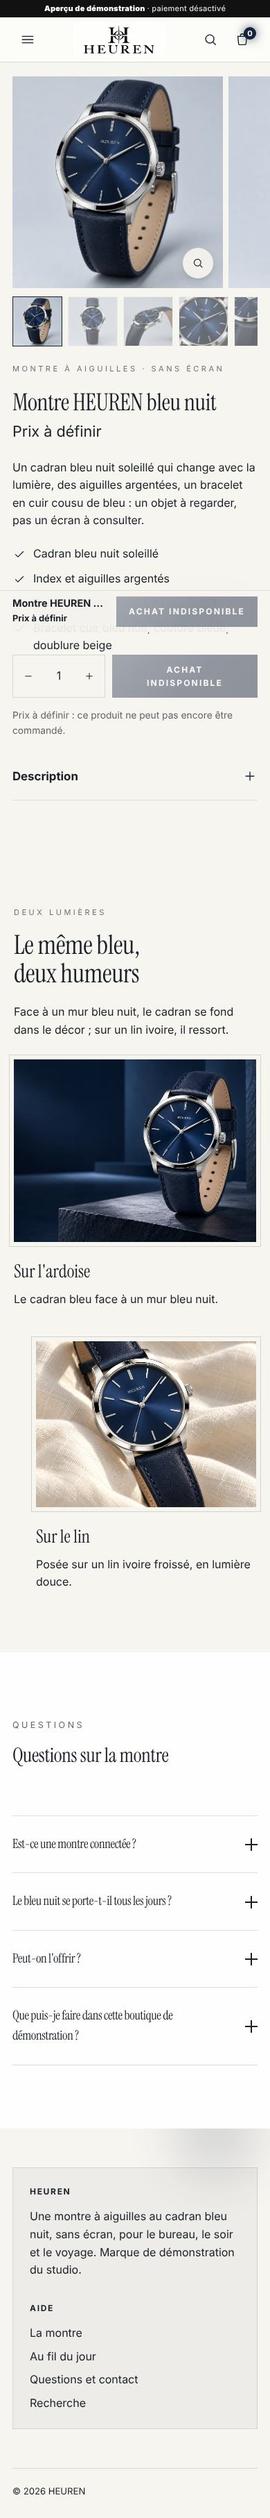
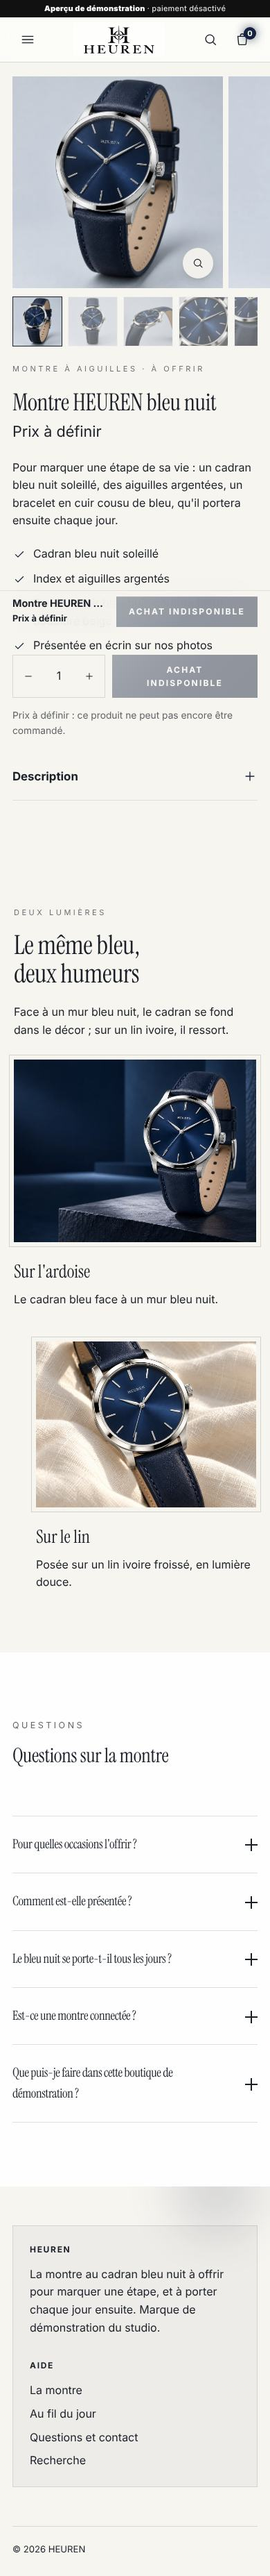
HEUREN : « il y a des étapes qui méritent une montre », le cadeau qui se porte ensuite (consigne de Thomas, 21 h 45)
- Cible : la personne qui offre une montre à son compagnon pour marquer une étape de sa vie ; l'occasion et
  l'intention portent le récit (plus de « guerre contre les notifications »).
- Ouverture sur l'écrin et son ruban ; cadran « qu'il regardera longtemps », « un cadeau qui se porte, bien après la
  fête », « du bureau au dîner, il la garde » ; FAQ des occasions et de l'écrin ; question « Peut-on la faire graver ? »
  prête dans l'éditeur, rien d'inventé. Fiche, « Au fil du jour », aide, pied, SEO. Captures régénérées.

Claude-Session: https://claude.ai/code/session_01EKtK8Za16S8DnNDefXRRF7

diff --git a/tests/heuren-alcove-fixtures.ts b/tests/heuren-alcove-fixtures.ts
@@ -60,25 +60,26 @@ export const ALCOVE_MEDIA: Media[] = [
 export const SHOP_KIT_MEDIA: Record<ShopKitId, Media[]> = { heuren: HEUREN_MEDIA, alcove: ALCOVE_MEDIA };
 export const SHOP_KIT_HANDLE: Record<ShopKitId, string> = { heuren: "montre-heuren-bleu-nuit", alcove: "fauteuil-alcove-terracotta" };
 
-// HEUREN — fiche de stratégie (consigne du 21 octobre, 19 h 50 ; hypothèse éditoriale, pas une étude) :
-//  1. cible : une personne dont le poignet vibre toute la journée (téléphone, montre connectée) et qui voudrait y porter
-//     un bel objet, au bureau comme le soir ;
-//  2. tension : « Mon poignet me réclame quelque chose toutes les cinq minutes. » ;
-//  3. désir : porter quelque chose de beau qui ne demande rien — angle unique : un bleu à regarder, pas un écran à
-//     surveiller ;
-//  4. promesse tenable : une montre à aiguilles au cadran bleu nuit soleillé qui change avec la lumière ; faits = visuels
-//     (cadran, index, aiguilles, boîtier, bracelet, écrin, décors) ; mouvement, taille, étanchéité et matières inconnus ;
-//  5. objections : est-ce connecté (non : un cadran et des aiguilles), le bleu au quotidien (tenues des photos), l'offrir
-//     (l'écrin des photos, contenu à confirmer), prix, taille et commande (information dédiée) ;
-//  6. parcours : ouverture (se reconnaître) → cadran (l'angle) → repères (les détails) → sobriété → du bureau au dîner →
-//     achat → FAQ « Avant de choisir » → inscription.
+// HEUREN — fiche de stratégie (consigne de Thomas du 21 octobre, 21 h 45 ; brief, hypothèse éditoriale) :
+//  acheteur : une personne qui offre une montre à son compagnon ; utilisateur : lui, qui la portera ;
+//  situation d'achat : une étape de sa vie à marquer (nouveau poste, anniversaire, projet qui aboutit) ;
+//  tension (ses mots) : « Je veux un cadeau à la hauteur du moment, pas un objet qui finira dans un tiroir. » ;
+//  désir : que le cadeau garde la trace de ce moment, et qu'il le porte ensuite ;
+//  angle unique : un cadeau qui matérialise ce moment et se porte ensuite au quotidien ;
+//  promesse tenable : une montre à aiguilles au cadran bleu nuit soleillé, présentée en écrin sur les photos, assez
+//  sobre pour le bureau comme pour le soir ; faits = visuels (cadran, index, aiguilles, boîtier, bracelet, écrin, décors) ;
+//  objections : pour quelle occasion, comment elle est présentée (écrin, contenu non renseigné), le bleu au quotidien,
+//  connectée ou non (une montre à aiguilles), gravure, prix, taille et mouvement (non renseignés) ;
+//  exclusions : aucune guerre contre les notifications, aucun mouvement, taille, matière, étanchéité ni gravure inventés.
 export const HEUREN_FAQ: [string, string][] = [
-  ["Est-ce une montre connectée ?", "Non : un cadran, des index et des aiguilles. Elle ne vibre pas et n'affiche aucune notification ; elle donne l'heure, c'est tout."],
+  ["Pour quelles occasions l'offrir ?", "Un nouveau poste, un anniversaire, des fiançailles, un diplôme, un projet qui aboutit : une étape que vous voulez marquer avec un objet qu'il portera ensuite tous les jours."],
+  ["Comment est-elle présentée ?", "Nos photos la montrent dans un écrin bleu nuit, un ruban crème à côté. Le contenu exact de l'écrin n'est pas encore renseigné."],
   ["Le bleu nuit se porte-t-il tous les jours ?", "Sur nos photos, il accompagne un veston, une chemise blanche, un bureau en noyer et une trousse de voyage : un bleu sombre, sobre, que les index argentés éclairent."],
-  ["Peut-on l'offrir ?", "Nos photos la montrent dans un écrin bleu nuit, un ruban crème à côté. Le contenu exact de l'écrin n'est pas encore renseigné."],
-  ["Que puis-je faire dans cette boutique de démonstration ?", "Faire le tour de la montre en cinq vues et la voir au fil du jour. Le prix, la taille du boîtier et le mouvement ne sont pas encore renseignés, et la commande est désactivée."],
+  ["Est-ce une montre connectée ?", "Non : un cadran, des index et des aiguilles. Elle donne l'heure, avec un beau bleu autour."],
+  ["Que puis-je faire dans cette boutique de démonstration ?", "Faire le tour de la montre en cinq vues et la voir au fil du jour. Le prix, la taille du boîtier, le mouvement et la gravure ne sont pas encore renseignés, et la commande est désactivée."],
 ];
 export const HEUREN_FAQ_PENDING: [string, string][] = [
+  ["Peut-on la faire graver ?", TODO("gravure possible ou non, emplacement et nombre de caractères")],
   ["Quel mouvement anime la montre ?", TODO("type de mouvement et réserve de marche")],
   ["Est-elle étanche ?", TODO("étanchéité, en mètres ou en ATM")],
   ["Quelle est la taille du boîtier ?", TODO("diamètre, épaisseur, largeur entre les cornes")],
@@ -117,7 +118,7 @@ const BRANDS: Record<ShopKitId, Brand> = {
     name: "HEUREN", product: "Montre HEUREN bleu nuit", category: "Montre",
     summary: "Montre à cadran bleu nuit soleillé, index et aiguilles argentés, boîtier argenté, bracelet en cuir bleu nuit cousu de bleu et doublé de beige ; le nom HEUREN est inscrit sur le cadran.",
     facts: [["Cadran", "bleu nuit soleillé, index et aiguilles argentés"], ["Bracelet", "cuir bleu nuit, couture bleue, doublure beige"]],
-    tagline: "L'heure bleue, au poignet.", story: "HEUREN est née d'un bleu : celui du ciel juste après le coucher du soleil.", positioning: "Une montre au cadran bleu nuit pour le bureau, le soir et le voyage.",
+    tagline: "Pour marquer une étape, à porter chaque jour.", story: "HEUREN est née d'une idée : qu'un cadeau marquant ne finisse pas dans un tiroir, mais au poignet, chaque jour.", positioning: "Une montre au cadran bleu nuit à offrir pour une étape de vie, et à porter au quotidien.",
     // Bleu nuit du cadran, argent brumeux des fonds produit, beige de la doublure, ivoire.
     palette: { primary: "#15233E", secondary: "#D9DDE3", accent: "#B8946A", light: "#F7F5F0", dark: "#0D1526" },
   },
@@ -147,44 +148,44 @@ const marker = (_k: Kit, x: number, y: number, title: string) => ({ type: "marke
 function curateHeuren(k: Kit) {
   const { spec, img, section, overlay, faq, productHref } = k;
   k.demoMeta();
-  spec.store.seo = { title: "HEUREN | Montre à aiguilles au cadran bleu nuit soleillé, sans écran", description: "Un bleu à regarder, pas un écran à surveiller : la montre HEUREN, cadran bleu nuit soleillé, aiguilles argentées, bracelet en cuir cousu de bleu." };
+  spec.store.seo = { title: "HEUREN | Une montre à offrir pour marquer une étape de sa vie", description: "Nouveau poste, anniversaire, projet abouti : offrez-lui la montre HEUREN au cadran bleu nuit soleillé, pour garder ce moment au poignet, chaque jour." };
   k.product({
     title: "Montre HEUREN bleu nuit",
-    description_html: p("Son rôle : donner l'heure, et rien d'autre. Pas d'écran, pas de notification : un cadran que l'on regarde parce qu'il est beau.") + p("Ce qu'on voit : un cadran bleu nuit soleillé dont les reflets changent avec la lumière, des index et des aiguilles argentés, un boîtier argenté, un bracelet en cuir bleu nuit cousu de bleu et doublé de beige. Le nom HEUREN est inscrit sur le cadran.") + p("Quand la porter : au bureau, avec un veston, en voyage, et posée sur son support le soir ; nos photos la montrent à chacun de ces moments."),
+    description_html: p("Pourquoi l'offrir : pour marquer une étape de sa vie (un nouveau poste, un anniversaire, un projet qui aboutit) avec un objet qu'il portera ensuite tous les jours.") + p("Ce qu'on voit : un cadran bleu nuit soleillé dont les reflets changent avec la lumière, des index et des aiguilles argentés, un boîtier argenté, un bracelet en cuir bleu nuit cousu de bleu et doublé de beige. Le nom HEUREN est inscrit sur le cadran.") + p("Après le jour J : au bureau, avec un veston, en voyage, et posée sur son support le soir ; nos photos la montrent à chacun de ces moments. Le contenu exact de l'écrin n'est pas encore renseigné."),
     images: ["produit-01.webp", "produit-02.webp", "produit-03.webp", "produit-04.webp", "produit-05.webp"],
     tags: ["montre", "bleu nuit", "cuir"],
-    seo: { title: "Montre HEUREN bleu nuit : cadran, boîtier et bracelet en détail", description: "Faites le tour de la montre HEUREN : trois quarts, face, profil, cadran bleu nuit soleillé et bracelet en cuir cousu de bleu, en gros plan." },
+    seo: { title: "Montre HEUREN bleu nuit, à offrir : cadran et bracelet en détail", description: "Avant de l'offrir, faites le tour de la montre HEUREN : trois quarts, face, profil, cadran bleu nuit soleillé et bracelet en cuir cousu de bleu." },
   });
 
   // ─── Accueil : l'heure bleue, le cadran, les repères, puis la montre portée. ──────────────────────────────────────
   overlay("index", [
-    section("ed-opening", { ...img("ambiance-07.webp"), layout: "journal", heading_tag: "h1", label: "Montre à aiguilles", heading: "L'heure bleue,\nau poignet.", text: p("Pas d'écran, pas de notification : un cadran bleu nuit soleillé, des aiguilles argentées, un bracelet de cuir cousu de bleu. Une montre que l'on regarde pour le plaisir."), button_label: "Voir la montre", button_link: productHref, focus_x: 46, focus_y: 50, mobile_focus_x: 40, mobile_focus_y: 50, copy_surface: true, caption: "", motion: "reveal", padding_top: 24, padding_bottom: 72 }),
-    section("ed-statement", { ...img("produit-04.webp"), label: "Le cadran", heading: "Un bleu à regarder, pas un écran à surveiller", text: p("Le cadran soleillé renvoie la lumière du centre vers le bord : il n'est pas le même sous la lampe du bureau et au coucher du soleil. Le nom HEUREN y est inscrit en argent, au-dessus de l'axe des aiguilles."), button_label: "", button_link: "", motion: "reveal", color_scheme: "scheme-2", padding_top: 96, padding_bottom: 96 }, [
+    section("ed-opening", { ...img("ambiance-10.webp"), layout: "journal", heading_tag: "h1", label: "Une montre à offrir", heading: "Il y a des étapes\nqui méritent une montre.", text: p("Un nouveau poste, un anniversaire, un projet qui aboutit : offrez-lui HEUREN. Ce soir-là, il ouvre l'écrin ; ensuite, il la porte chaque jour."), button_label: "Découvrir la montre", button_link: productHref, focus_x: 50, focus_y: 50, mobile_focus_x: 50, mobile_focus_y: 50, copy_surface: true, caption: "", motion: "reveal", padding_top: 24, padding_bottom: 72 }),
+    section("ed-statement", { ...img("produit-04.webp"), label: "Le cadran", heading: "Un bleu qu'il regardera longtemps", text: p("Le cadran soleillé renvoie la lumière du centre vers le bord : il change sous la lampe du bureau et au coucher du soleil. Chaque fois qu'il lira l'heure, il retrouvera ce bleu, et le jour où il l'a reçue."), button_label: "", button_link: "", motion: "reveal", color_scheme: "scheme-2", padding_top: 96, padding_bottom: 96 }, [
       { type: "point", settings: { title: "Cadran soleillé", text: "Bleu nuit, reflets rayonnants du centre vers le bord." } },
       { type: "point", settings: { title: "Index et aiguilles", text: "Argentés et fins, nets sur le bleu." } },
       { type: "point", settings: { title: "Boîtier", text: "Argenté, couronne sur le côté droit." } },
       { type: "point", settings: { title: "Bracelet", text: "Cuir bleu nuit, couture bleue, doublure beige." } },
     ]),
-    section("fs-lookbook", { ...img("produit-02.webp"), layout: "markers", eyebrow: "Repères", heading: "La montre,", heading_accent: "point par point", text: p("Touchez un repère : le nom, le cadran, la couronne et le bracelet, un détail à la fois."), align: "left", button_label: "Voir la fiche", button_link: productHref, link_label: "Voir la montre", effect: "fade", stagger: true, hover: false, background: "scheme" }, [
+    section("fs-lookbook", { ...img("produit-02.webp"), layout: "markers", eyebrow: "Repères", heading: "Ce qu'il découvrira,", heading_accent: "point par point", text: p("Touchez un repère : le nom, le cadran, la couronne et le bracelet, un détail à la fois."), align: "left", button_label: "Voir la fiche", button_link: productHref, link_label: "Voir la montre", effect: "fade", stagger: true, hover: false, background: "scheme" }, [
       marker(k, 48, 33, "Le nom HEUREN, en argent sur le cadran"),
       marker(k, 37, 55, "Le cadran bleu nuit soleillé"),
       marker(k, 75, 44, "La couronne, sur le côté du boîtier"),
       marker(k, 58, 84, "Le bracelet en cuir, cousu de bleu"),
     ]),
-    section("fs-campaign", { ...img("ambiance-09.webp"), layout: "background", eyebrow: "Sobre", heading: "Un bleu qui ne crie pas,", heading_accent: "même au grand soleil", text: p("Sur le béton, entre lumière et ombres géométriques : le cadran reste profond, les index argentés restent nets."), align: "left", label: "", offer_title: "", offer_text: "", period_text: "", conditions: "", cta_label: "Voir la montre", cta_link: productHref, cta2_label: "Au fil du jour", cta2_link: "/pages/au-fil-du-jour", focus_x: 55, focus_y: 50, effect: "fade", stagger: false, hover: false, background: "scheme", color_scheme: "scheme-2" }),
-    section("ed-scene", { ...img("ambiance-05.webp"), layout: "split", label: "À porter", heading: "Du bureau au dîner, sans changer de montre", text: p("Posée sur un veston plié, près d'une chemise blanche : le bleu nuit accompagne les tenues sobres, le cuir cousu de bleu reste discret."), button_label: "Au fil du jour", button_link: "/pages/au-fil-du-jour", caption: "", focus_x: 40, focus_y: 50, mobile_focus_x: 40, mobile_focus_y: 50, motion: "reveal", padding_top: 72, padding_bottom: 72 }),
-    section("featured-purchase", { label: "La montre", heading: "Montre HEUREN bleu nuit", text: p("Avant de la choisir, faites-en le tour : trois quarts, face, profil, puis le cadran et le bracelet en gros plan."), product: SHOP_KIT_HANDLE.heuren, product_target: "product:main", purchase_style: "compact", purchase_enabled: false, image_fit: "contain", gallery_limit: 4, enable_zoom: true, link_label: "Voir la fiche complète", color_scheme: "scheme-4" }),
-    v2faq(k, "center", "Questions", "Avant de choisir", "Connectée ou non, le bleu au quotidien, l'écrin, ce que permet la démonstration.", HEUREN_FAQ.slice(0, 4)),
-    section("newsletter-media", { ...img("ambiance-10.webp"), layout: "right", eyebrow: "Nouvelles d'HEUREN", heading: "Être prévenu quand HEUREN ouvre", text: p("Un e-mail à l'ouverture de la boutique. Rien d'autre."), perk_1: "", perk_2: "", perk_3: "", button_label: "Me prévenir", legal: p("Désinscription possible à tout moment depuis chaque e-mail.") }),
+    section("fs-campaign", { ...img("ambiance-09.webp"), layout: "background", eyebrow: "Après le jour J", heading: "Un cadeau qui se porte,", heading_accent: "bien après la fête", text: p("Au soleil comme à l'ombre, le cadran reste profond et les index argentés restent nets : une montre faite pour être portée, pas rangée dans un tiroir."), align: "left", label: "", offer_title: "", offer_text: "", period_text: "", conditions: "", cta_label: "Voir la montre", cta_link: productHref, cta2_label: "Au fil du jour", cta2_link: "/pages/au-fil-du-jour", focus_x: 55, focus_y: 50, effect: "fade", stagger: false, hover: false, background: "scheme", color_scheme: "scheme-2" }),
+    section("ed-scene", { ...img("ambiance-05.webp"), layout: "split", label: "Au quotidien", heading: "Du bureau au dîner, il la garde", text: p("Posée sur un veston plié, près d'une chemise blanche : le bleu nuit accompagne les tenues sobres. Le cadeau d'un soir devient sa montre de tous les jours."), button_label: "Au fil du jour", button_link: "/pages/au-fil-du-jour", caption: "", focus_x: 40, focus_y: 50, mobile_focus_x: 40, mobile_focus_y: 50, motion: "reveal", padding_top: 72, padding_bottom: 72 }),
+    section("featured-purchase", { label: "La montre", heading: "Montre HEUREN bleu nuit", text: p("Avant de l'offrir, faites-en le tour : trois quarts, face, profil, puis le cadran et le bracelet en gros plan."), product: SHOP_KIT_HANDLE.heuren, product_target: "product:main", purchase_style: "compact", purchase_enabled: false, image_fit: "contain", gallery_limit: 4, enable_zoom: true, link_label: "Voir la fiche complète", color_scheme: "scheme-4" }),
+    v2faq(k, "center", "Questions", "Avant de l'offrir", "Les occasions, l'écrin, le bleu au quotidien, ce que permet la démonstration.", HEUREN_FAQ.slice(0, 5)),
+    section("newsletter-media", { ...img("ambiance-07.webp"), layout: "right", eyebrow: "Nouvelles d'HEUREN", heading: "Être prévenu quand HEUREN ouvre", text: p("Un e-mail à l'ouverture de la boutique, pour préparer votre cadeau. Rien d'autre."), perk_1: "", perk_2: "", perk_3: "", button_label: "Me prévenir", legal: p("Désinscription possible à tout moment depuis chaque e-mail.") }),
   ]);
 
   // ─── Fiche produit ──────────────────────────────────────────────────────────────────────────────────────────────
   k.mainProduct({
-    eyebrow: "Montre à aiguilles · sans écran",
-    text: "Un cadran bleu nuit soleillé qui change avec la lumière, des aiguilles argentées, un bracelet en cuir cousu de bleu : un objet à regarder, pas un écran à consulter.",
-    highlights: "Cadran bleu nuit soleillé\nIndex et aiguilles argentés\nBoîtier argenté, couronne sur le côté\nBracelet cuir bleu nuit, couture bleue, doublure beige",
+    eyebrow: "Montre à aiguilles · à offrir",
+    text: "Pour marquer une étape de sa vie : un cadran bleu nuit soleillé, des aiguilles argentées, un bracelet en cuir cousu de bleu, qu'il portera ensuite chaque jour.",
+    highlights: "Cadran bleu nuit soleillé\nIndex et aiguilles argentés\nBracelet cuir bleu nuit, couture bleue, doublure beige\nPrésentée en écrin sur nos photos",
     description: spec.store.product.description_html,
-    specs: "mouvement, réserve de marche, étanchéité, diamètre et épaisseur du boîtier, matières du boîtier et du verre, largeur du bracelet",
+    specs: "gravure, mouvement, réserve de marche, étanchéité, diamètre et épaisseur du boîtier, matières du boîtier et du verre, largeur du bracelet",
     box: "contenu exact de l'écrin",
     shipping: "zones, délais et frais de livraison ; délai et conditions de retour ; durée de garantie",
     settings: { gallery_layout: "grid", gallery_ratio: "square", enable_zoom: true, sticky_bar: true, color_scheme: "scheme-1" },
@@ -198,8 +199,8 @@ function curateHeuren(k: Kit) {
   ]);
 
   // ─── Pages ──────────────────────────────────────────────────────────────────────────────────────────────────────
-  k.page("au-fil-du-jour", "Au fil du jour", { title: "Au fil du jour : la montre HEUREN du bureau au soir | HEUREN", description: "Au bureau, sur son support le soir, posée sur le travertin : la montre HEUREN au fil de la journée, en photos, pour l'imaginer à votre poignet." }, [
-    ["intro", section("rich-text", { style: "plain", align: "left", color_scheme: "scheme-1", padding_top: 24, padding_bottom: 24 }, [{ type: "text", settings: { text: p("Une montre se regarde au poignet, mais aussi posée. Voici HEUREN au fil d'une journée, du bureau du matin au support du soir.") } }])],
+  k.page("au-fil-du-jour", "Au fil du jour", { title: "Après le jour J : la montre HEUREN au fil de ses journées | HEUREN", description: "Au bureau, en voyage, sur son support le soir : la montre HEUREN au fil de ses journées, en photos, pour imaginer le cadeau à son poignet." }, [
+    ["intro", section("rich-text", { style: "plain", align: "left", color_scheme: "scheme-1", padding_top: 24, padding_bottom: 24 }, [{ type: "text", settings: { text: p("Le soir où on l'offre compte. Les jours suivants aussi : voici HEUREN au fil d'une journée, du bureau du matin au support du soir.") } }])],
     ["moments", section("ed-diptych", { layout: "index", label: "Trois moments", heading: "Au bureau, en voyage, le soir", text: "", button_label: "", button_link: "", motion: "reveal", padding_top: 48, padding_bottom: 72 }, [
       frame(k, "ambiance-02.webp", "Le matin, au bureau", "Sur le noyer, à côté d'un carnet ouvert et d'un stylo.", "landscape"),
       frame(k, "ambiance-04.webp", "En voyage", "Sur sa trousse de cuir bleu, près d'une carte dépliée.", "landscape", { focus_x: 52 }),
@@ -207,9 +208,9 @@ function curateHeuren(k: Kit) {
     ])],
     ["fin", section("ed-scene", { ...img("ambiance-03.webp"), layout: "closing", label: "Posée", heading: "Une montre à regarder, aussi", text: p("Sur un socle de travertin, dans la lumière rasante : HEUREN se regarde même quand on ne la porte pas."), button_label: "Voir la montre", button_link: productHref, caption: "", motion: "reveal", color_scheme: "scheme-4", padding_top: 88, padding_bottom: 88 })],
   ]);
-  k.page("aide", "Questions et contact", { title: "Questions et contact | HEUREN, montre bleu nuit", description: "Montre connectée ou non, le bleu au quotidien, l'écrin, ce que permet la démonstration : nos réponses, et un formulaire pour le reste." }, [
+  k.page("aide", "Questions et contact", { title: "Questions et contact | HEUREN, montre à offrir", description: "Les occasions, l'écrin, le bleu au quotidien, montre connectée ou non : nos réponses avant d'offrir HEUREN, et un formulaire pour le reste." }, [
     ["faq", faq("Questions fréquentes", [...HEUREN_FAQ, ...HEUREN_FAQ_PENDING], "numbered", "stacked", "", { color_scheme: "scheme-1" })],
-    ["form", section("contact-form", { eyebrow: "Contact", heading: "Une question avant de choisir ?", text: p("Écrivez-nous : le formulaire vérifie les champs avant l'envoi. Dans cette démonstration, aucun message n'est réellement transmis."), email: "", hours: "", response: "", preview_note: true, color_scheme: "scheme-4", padding_top: 64, padding_bottom: 96 })],
+    ["form", section("contact-form", { eyebrow: "Contact", heading: "Une question avant de l'offrir ?", text: p("Écrivez-nous : le formulaire vérifie les champs avant l'envoi. Dans cette démonstration, aucun message n'est réellement transmis."), email: "", hours: "", response: "", preview_note: true, color_scheme: "scheme-4", padding_top: 64, padding_bottom: 96 })],
   ]);
 
   // ─── Menus, en-tête « logo centré, menu à gauche » sur blanc (fond du logo), pied « encadré » ────────────────────
@@ -228,7 +229,7 @@ function curateHeuren(k: Kit) {
   const footer = Object.values(spec.groups.footer.sections).find((s) => s.type === "footer")!;
   footer.settings = { ...footer.settings, style: "boxed", show_wordmark: false, show_policies: false, show_payment: false, color_scheme: "scheme-1", logo_asset: "" };
   footer.blocks = {
-    about: { type: "text", settings: { heading: "HEUREN", text: p("Une montre à aiguilles au cadran bleu nuit, sans écran, pour le bureau, le soir et le voyage. Marque de démonstration du studio.") } },
+    about: { type: "text", settings: { heading: "HEUREN", text: p("La montre au cadran bleu nuit à offrir pour marquer une étape, et à porter chaque jour ensuite. Marque de démonstration du studio.") } },
     links: { type: "links", settings: { heading: "Aide", menu: "footer" } },
   };
   footer.block_order = ["about", "links"];

diff --git a/docs/COPYWRITING-themes.md b/docs/COPYWRITING-themes.md
@@ -104,20 +104,28 @@ structurées « Son rôle / Quand l'utiliser / Ce qu'on voit / Avec quelle pièc
 Test mis à jour : le H1 attendu devient « Premier chien, premières balades ». Code : `tests/museau-souple-fixtures.ts`.
 Preuves : `docs/preuves/copywriting/museau-club/` (26 captures).
 
-### HEUREN — E-commerce, mono-produit — **réécrit**
+### HEUREN — E-commerce, mono-produit — **réécrit (consigne 21 h 45)** : le cadeau d'une étape de vie
 
-1. **Cible** : une personne dont le poignet vibre toute la journée (téléphone, montre connectée) et qui voudrait y porter un bel objet.
-2. **Tension** : « Mon poignet me réclame quelque chose toutes les cinq minutes. »
-3. **Désir et angle** : porter quelque chose de beau qui ne demande rien → un bleu à regarder, pas un écran à surveiller.
-4. **Promesse et faits** : une montre à aiguilles au cadran bleu nuit soleillé qui change avec la lumière ; faits = visuels.
-   Mouvement, taille, étanchéité et matières inconnus (jamais affirmés).
-5. **Objections** : connectée ou non ; le bleu au quotidien ; l'offrir (écrin des photos, contenu non renseigné) ; prix,
-   taille et commande (information dédiée).
-6. **Parcours** : ouverture « L'heure bleue, au poignet. » (pas d'écran, pas de notification) → cadran (l'angle) → repères
-   → « Un bleu qui ne crie pas » → « Du bureau au dîner, sans changer de montre » → achat → FAQ → inscription.
+| | |
+|---|---|
+| Acheteur | une personne qui offre une montre à son compagnon (brief) |
+| Utilisateur | lui, qui la portera |
+| Situation d'achat | une étape de sa vie à marquer : nouveau poste, anniversaire, projet qui aboutit |
+| Tension (ses mots) | « Je veux un cadeau à la hauteur du moment, pas un objet qui finira dans un tiroir. » |
+| Désir | que le cadeau garde la trace du moment, et qu'il le porte ensuite |
+| Angle unique | un cadeau qui matérialise ce moment et se porte ensuite au quotidien |
+| Promesse tenable | une montre à aiguilles au cadran bleu nuit soleillé, présentée en écrin sur les photos, sobre au bureau comme le soir |
+| Objections traitées | pour quelles occasions, comment elle est présentée (contenu de l'écrin non renseigné), le bleu au quotidien, connectée ou non, ce que permet la démo |
+| **Faits** | visuels : cadran, index, aiguilles, boîtier, bracelet, écrin et ruban, décors (bureau, veston, voyage, chevet) |
+| **Non renseigné** | gravure (nouvelle question masquée), mouvement, étanchéité, taille, matières, bracelet, garantie, prix |
+| Exclusions | plus de « guerre contre les notifications » ; rien d'inventé sur la gravure, le mouvement ou les matières |
 
-Pages réécrites : accueil, fiche (rôle, ce qu'on voit, quand la porter ; « Le même bleu, deux humeurs »), « Au fil du
-jour », aide, pied, SEO. Preuves : `docs/preuves/copywriting/heuren/`.
+Pages : accueil (ouverture sur **l'écrin et son ruban** au lieu de la pierre noire : « Il y a des étapes qui méritent une
+montre. » → « Un bleu qu'il regardera longtemps » → « Ce qu'il découvrira, *point par point* » → « Un cadeau qui se
+porte, *bien après la fête* » → « Du bureau au dîner, il la garde » → achat → « Avant de l'offrir » → inscription « pour
+préparer votre cadeau »), fiche (« Montre à aiguilles · à offrir »), « Au fil du jour » (après le jour J), aide, pied, SEO.
+Visuels cohérents (écrin, tenues sobres, voyage, chevet) ; la scène sur pierre noire passe à l'inscription. Code :
+`tests/heuren-alcove-fixtures.ts`. Preuves : `docs/preuves/copywriting/heuren/`.
 
 ### ALCÔVE — E-commerce, mono-produit — **réécrit**
 
